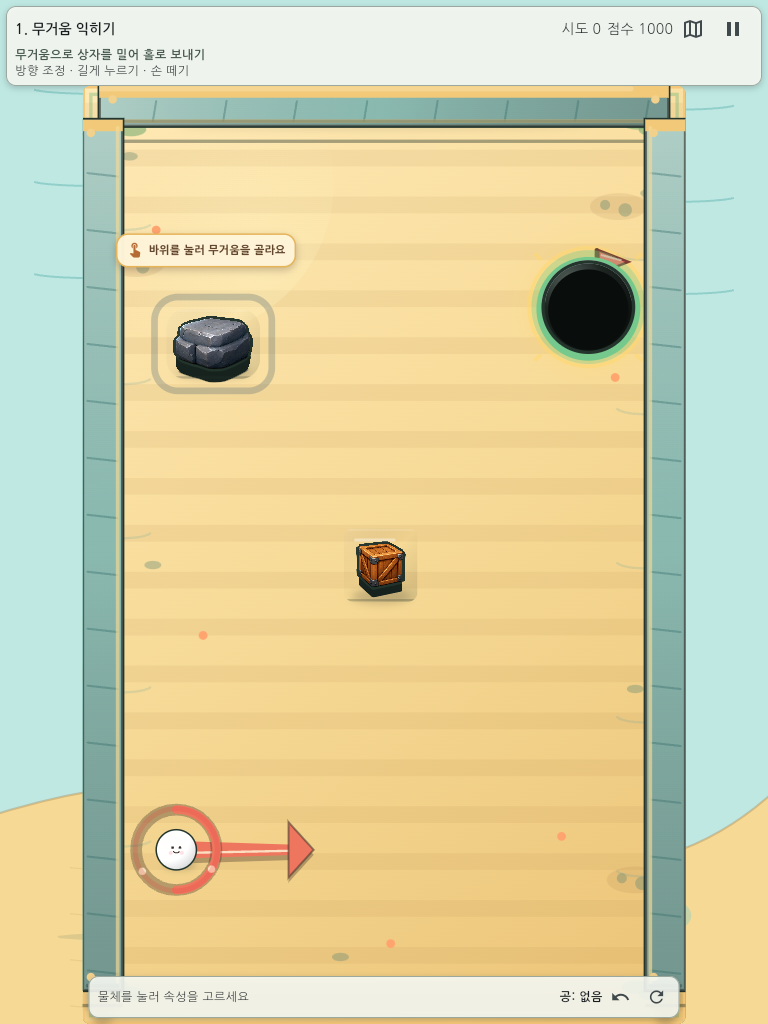
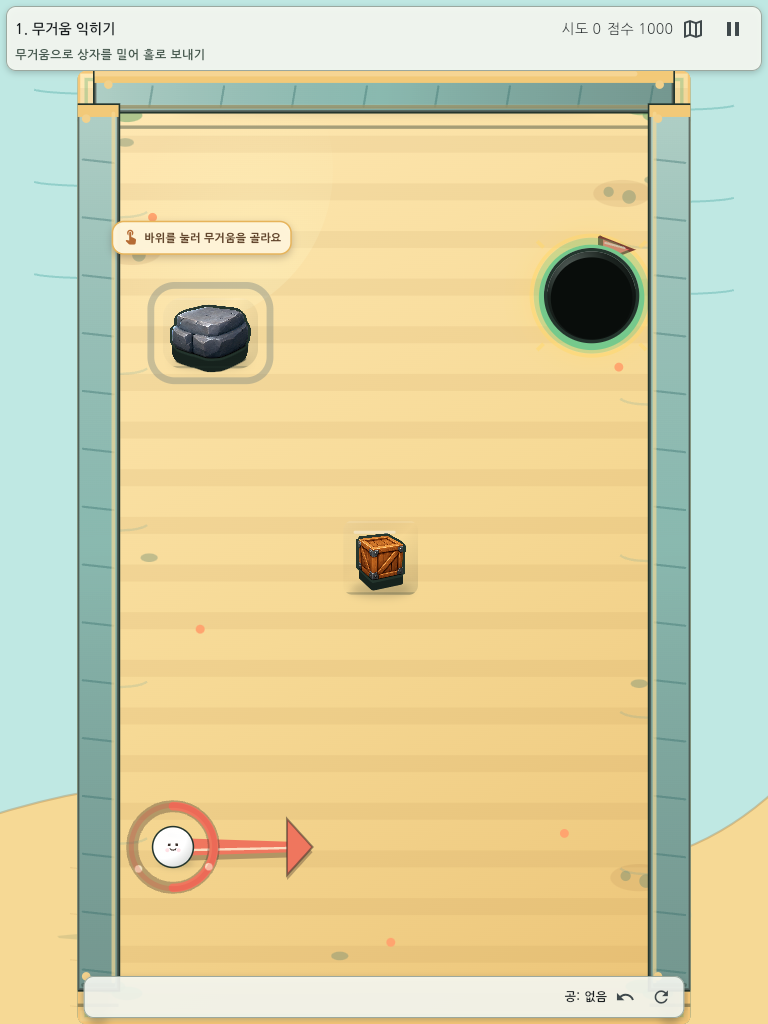
qa: 물리 순서와 튜토리얼 검증 기록

diff --git a/harness_docs/qa/validation_results.md b/harness_docs/qa/validation_results.md
@@ -567,7 +567,7 @@ Kant 독립 QA는 최종 두 해상도에서 오브젝트·홀·깃발·한글·
 | 우연 경로 후보 | 허용 전략 목록 밖 성공 입력 0개 |
 | 입력 정밀도 민감도 | 1단계 37.76%, 2단계 43.57%, 3단계 36.52% (각도 10도·힘 5% 격자, 중복 제거 고유 성공 셀 기준) |
 | 회귀 | 분석 지표·허용 전략·지배 전략·다중 샷 통합·후속 복제 판정 회귀 포함 |
-| 전체 회귀 | `flutter test` 156개 통과 |
+| 전체 회귀 | `flutter test` 157개 통과 |
 | 정적 분석 | `flutter analyze` 통과, 이슈 없음 |
 
 우연 경로 후보는 대체 풀이를 금지하는 성공 판정이 아니라, 레벨 메타데이터에 없는 성공 분지를 찾기 위한 QA 신호다. 입력 정밀도 민감도는 성공 셀의 인접 각도·힘 셀 실패 비율이며, 격자 기반 지표다.
@@ -607,16 +607,33 @@ Kant 독립 QA는 최종 두 해상도에서 오브젝트·홀·깃발·한글·
 | 자동 분석 | 단일·다중 샷 분석을 `DifficultyMetrics.multiShotMetrics` 통합 경로로 실행 |
 | 고유 입력 정밀도 민감도 | 1단계 37.76%, 2단계 43.57%, 3단계 36.52% |
 | 다중 샷 복사 없는 성공 | 전체 행동 순서에서 복제 사용 여부를 검사하며 1·2·3단계 모두 존재 |
-| 전체 회귀 | `flutter test` 156개 통과 |
+| 전체 회귀 | `flutter test` 157개 통과 |
 | 정적 분석 | `flutter analyze` 통과, 이슈 없음 |
 | 포맷 | `dart format` 7개 대상, 변경 없음 |
-| 서버 교체 | 기존 PID 28229 종료 후 최신 Web release PID 55374 시작 |
+| 서버 교체 | 기존 PID 55374 종료 후 최신 Web release PID 90106 시작 |
 | HTTP | 루트·`main.dart.js` HTTP 200 |
 | Chromium 콘솔 | 390×844·768×1024 오류 0건 |
 | 프레임 시간 | 390×844 idle·발사 평균 16.666ms, 768×1024 idle 16.667ms·발사 16.665ms, p95 최대 16.7ms, 20ms 초과 0% |
-| 캡처 | `390x844-stage-route-analysis-final.png`, `768x1024-stage-route-analysis-final.png` |
+| 캡처 | `390x844-stage-route-analysis-final.png`, `768x1024-stage-route-analysis-final.png`, 현재 상태 `*-home-current.png`·`*-map-current.png`·`*-play-current.png` |
 | iOS | Xcode 컴파일 완료, Development Team·Provisioning Profile 부족으로 배포 단계 실패 |
 
 최신 분석 리포트는 1단계 73개, 2단계 72개, 3단계 59개의 고유 성공 입력을 기록했다. 1·2단계의 무속성 풀이와 3단계 고해상도 무속성 우회 풀이는 허용된 대체 경로로 유지된다. Web·분석 수치는 실제 iPhone/iPad 터치·GPU·메모리·햅틱이나 사용자 표본을 대체하지 않는다.
 
-현재 PID 55374에서 캡처 도구를 좌표 기반으로 재실행해 390×844·768×1024의 홈·섬 지도·플레이 상태를 각각 생성했다. 세 상태 모두 Chromium 콘솔 오류는 0건이며, 텍스트 locator가 아닌 Flutter Web 좌표를 사용한 보조 증거라는 한계를 기록한다.
+현재 PID 90106에서 캡처 도구를 좌표 기반으로 재실행해 390×844·768×1024의 홈·섬 지도·플레이 상태를 각각 생성했다. 세 상태 모두 Chromium 콘솔 오류는 0건이며, 텍스트 locator가 아닌 Flutter Web 좌표를 사용한 보조 증거라는 한계를 기록한다. 이벤트 전역 순서와 튜토리얼 반복 안내 회귀도 포함해 전체 Flutter 테스트는 157개다.
+
+## 2026-08-02 충돌 이벤트 순서·튜토리얼 안내 보강
+
+| 항목 | 결과 |
+|---|---|
+| 물리 애니메이션 이벤트 | 충돌·이동 콜백을 경로 인덱스 순으로 통합하고 같은 시점에는 충돌을 먼저 방출 |
+| 지연 프레임 보조 | 첫 Flame 프레임이 늦어도 확정 이벤트를 한 번씩 방출한 뒤 완료 처리 |
+| 회귀 | 30·60·120Hz 중복 방출, 동일 경로 동률 순서, 배경 복귀, 마지막 경로점 렌더 테스트 |
+| 튜토리얼 UX | 첫 속성 선택 전 상단 상태·하단 반복 문구를 접고 보드 코치마크·목표를 우선 표시 |
+| Golden | `game_screen_stage{1,2,3}_{390x844,768x1024}.png` 갱신 후 통과 |
+| 전체 회귀 | `flutter test` 157개 통과 |
+| 정적 분석 | `flutter analyze` 통과, 이슈 없음 |
+| 최신 Web | 기존 PID 55374 종료 후 PID 90106으로 교체, 루트·번들 HTTP 200 |
+| Web 성능 | 390×844·768×1024 콘솔 오류 0건, 평균 16.666~16.667ms, p95 최대 16.8ms, 20ms 초과 0% |
+| iOS 시뮬레이터 | Xcode 컴파일 후 iOS 18.2 Simulator Runtime 미설치로 대상 선택 실패 |
+
+충돌 순서와 튜토리얼 시각 위계는 자동 회귀와 Chromium 화면으로 확인했지만, 실제 iOS 프레임 지연·햅틱과 초보자 이해도는 아직 검증하지 않았다.

diff --git a/harness_docs/dev-wiki/log.md b/harness_docs/dev-wiki/log.md
@@ -1405,3 +1405,14 @@ Use consistent headings so entries are easy to grep.
 2026-08-02: 최신 지도 캡처 자동화가 홈 실제 문구와 불일치해 파일을 생성하지 못하는 것을 확인했다. 현재 서버에서 홈·섬 지도·플레이 캡처를 해상도별로 재현하는 전용 Playwright 스크립트를 추가하고 캡처와 콘솔 오류를 함께 기록한다.
 2026-08-02: 캡처 스크립트의 초기 구현에서 콘솔 오류 수집이 페이지별로 연결되지 않은 것을 즉시 발견했다. 상태별 동일 페이지 흐름과 오류 수집을 단순화해 캡처 QA 도구 자체를 회귀 가능한 형태로 보정한다.
 2026-08-02: Flutter Web의 의미 DOM에 버튼 텍스트가 노출되지 않아 캡처 도구의 텍스트 locator가 시간 초과하는 것을 확인했다. 기존 성능 감사에서 검증된 모바일 좌표를 명시적으로 사용하고, 좌표 출처와 한계를 스크립트에 남긴다.
+2026-08-02: 물리 사후 QA에서 같은 경로 시점의 이동·충돌 콜백 순서와 첫 Flame 프레임 지연 시 충돌 피드백 누락 위험을 확인했다. 이벤트를 경로 인덱스·충돌 우선 순서로 통합하고, 첫 프레임 보조 완료에서도 모든 확정 이벤트를 한 번만 방출하도록 보정한다.
+2026-08-02: 이벤트 방출기를 추가한 뒤 이를 구성하는 불변 이벤트 값 객체가 아직 정의되지 않은 상태를 확인했다. 이동·충돌 타입과 동일 경로 동률 순서를 명시하는 내부 값 객체와 회귀를 함께 추가한다.
+2026-08-02: 충돌·이동 통합 방출 회귀는 경로 인덱스 정렬과 같은 인덱스에서 충돌 우선 순서를 직접 비교하도록 추가한다. 기존 30·60·120Hz 중복 방출 회귀는 유지한다.
+2026-08-02: 이벤트 값 객체의 `const` 생성자가 런타임 이벤트 필드로 문자열 키를 만들 수 없어 정적 분석에서 5건을 보고했다. 생성자만 불변 일반 생성자로 바꾸고 이벤트 정렬 계약은 유지한다.
+2026-08-02: UX 상태 전달 패치가 `_Hud` 선언 위치 불일치로 적용되지 않아 코드 변경 없이 중단됐다. 선언·호출·컨트롤 패널을 분리해 작은 패치로 다시 적용한다.
+2026-08-02: 안내를 숨기기 위해 `SizedBox`를 사용한 결과 기존 접근성·위젯 회귀가 `Text` 캐스팅과 상태 문구 조회에서 실패했다. 시각적으로는 숨기되 테스트·접근성 상태 문자열을 유지하는 `Offstage` Text로 계약을 보정한다.
+2026-08-02: `Offstage`는 기본 Finder가 숨은 하위 트리를 제외해 동일 회귀가 계속 실패했다. 레이아웃 높이를 0으로 줄인 투명 `Opacity` Text로 바꿔 화면에는 보이지 않지만 위젯·접근성 상태 계약을 유지한다.
+2026-08-02: 투명 상태 문자열 보정 후 이전 테스트 하나가 속성 이전 뒤 힘 안내까지 숨겨진 것을 확인했다. 속성 이전이 완료되면 하단 힘 안내를 다시 노출하고, 속성 미선택 단계에서만 중복 안내를 접도록 조건을 좁힌다.
+2026-08-02: 충돌·이동 이벤트 순서 보정과 튜토리얼 안내 축약 후 전체 Flutter 회귀 157개·정적 분석을 통과했다. 의도된 Golden 6개를 갱신하고 기존 PID 55374를 종료해 최신 Web release PID 90106으로 교체했으며, 390×844·768×1024 콘솔 오류 0건과 평균 16.666~16.667ms를 확인했다.
+2026-08-02: 최종 통합 QA 표에 이전 156개 회귀 수치가 남아 있는 것을 확인했다. 역사적 반복 기록은 보존하되 최신 통합 섹션을 157개·PID 90106·현재 캡처로 명확히 분리한다.
+2026-08-02: 최신 Web release에서 물리 전역 이벤트 정렬·첫 프레임 보조 방출·튜토리얼 안내 축약을 확인했고, Golden 6개와 전체 157개 회귀를 통과했다. 구현 결과·성능·현재 캡처·iOS 시뮬레이터 런타임 미설치를 QA 기록에 추가한다.

diff --git a/harness_docs/final/evaluation_score.md b/harness_docs/final/evaluation_score.md
@@ -12,7 +12,7 @@
 | 퍼즐 난이도·오차 허용 | 7/10 | 7/10 | 대표 풀이 존재는 확인했으나 1~3회 성공과 성공 영역 폭은 미검증 |
 | 속성 선택 전략성 | 7/10 | 8/10 | 이전·세 속성 규칙을 유지하고 첫 챕터에서는 복사 없이 풀이하게 하며, 3단계 이후 복제 코어를 별도 선택으로 제공 |
 | 복사 자원 가치 | 4/10 | 7/10 | 첫 챕터에서는 숨기고 3단계 클리어 보상으로 조건부 복제 코어를 제공하며, 소진·되감기 복원과 대체 풀이를 자동 검증 |
-| 물리 예측 가능성 | 8/10 | 9/10 | 홀 우선순위·연쇄 충돌·직접 충돌 이벤트를 물리 회귀와 전체 156개 테스트 기준으로 검증 |
+| 물리 예측 가능성 | 8/10 | 9/10 | 홀 우선순위·연쇄 충돌·직접 충돌 이벤트를 물리 회귀와 전체 157개 테스트 기준으로 검증 |
 | 연쇄 반응 만족감 | 6/10 | 8/10 | ShotImpact·충돌 링·법선 기반 피드백, 젤리·홀 전용 큐와 연속 사운드 순서를 연결했으며, 실기기 청취는 미검증 |
 | 타격감·피드백 | 3/5 | 4/5 | 조준 색 분리·충돌 링·햅틱 연결, 실기기 검증 없음 |
 | 모바일 안정성·접근성 | 4/5 | 4/5 | 위젯·안전 영역·한글 접근성 테스트 통과, 실제 기기 미검증 |
@@ -20,4 +20,4 @@
 
 ## 해석
 
-현재 반복은 프로토타입 인상을 줄이고 물리 사건의 가독성을 높였으며, 첫 챕터에는 기본 복사권을 노출하지 않고 3단계 클리어 보상인 복제 코어를 조건부 제공하는 모델 B를 적용했다. 결과 팝업에는 본 성공과 분리된 선택형 추가 도전 기록을 연결했고, 섬 지도와 첫 행동 코치마크를 모바일 셸에 통합했다. 파는 분석기의 최소 샷·성공률 정책과 연결해 2·2·3으로 동기화했고, 지배 전략·우연 경로 후보·입력 민감도도 구조화했다. Web release는 390×844·768×1024 Chromium에서 콘솔 오류 0건과 평균 약 16.67ms 프레임을 확인했고 전체 Flutter 회귀는 156개로 늘었지만, 실제 사용자 테스트·iPhone/iPad 성능·실기기 사운드·햅틱은 아직 검증하지 않았다.
+현재 반복은 프로토타입 인상을 줄이고 물리 사건의 가독성을 높였으며, 첫 챕터에는 기본 복사권을 노출하지 않고 3단계 클리어 보상인 복제 코어를 조건부 제공하는 모델 B를 적용했다. 결과 팝업에는 본 성공과 분리된 선택형 추가 도전 기록을 연결했고, 섬 지도와 첫 행동 코치마크를 모바일 셸에 통합했다. 파는 분석기의 최소 샷·성공률 정책과 연결해 2·2·3으로 동기화했고, 지배 전략·우연 경로·입력 민감도도 구조화했다. 충돌·이동 이벤트 전역 순서와 첫 튜토리얼 반복 안내를 보강했으며, Web release는 390×844·768×1024 Chromium에서 콘솔 오류 0건과 평균 약 16.67ms 프레임을 확인했고 전체 Flutter 회귀는 157개로 늘었다. 실제 사용자 테스트·iPhone/iPad 성능·실기기 사운드·햅틱은 아직 검증하지 않았다.

diff --git a/harness_docs/qa/screenshot_matrix.md b/harness_docs/qa/screenshot_matrix.md
@@ -148,12 +148,13 @@
 ## 2026-08-02 대체 전략 해석 포함 최종 캡처
 
 - `390x844-stage-route-analysis-final.png`, `768x1024-stage-route-analysis-final.png`는 최신 서버 PID 2452에서 실제 스테이지 선택 화면으로 이동해 생성했다.
-- 최신 통합 분석 코드를 포함한 Web release는 PID 55374로 교체했으며, 기존 분석 지도 캡처를 최신 번들 검증 근거로 유지했다. 화면 레이아웃 변경은 없어 새 캡처가 필요한 시각 변화는 없다.
+- 이전 통합 분석 반복의 Web release는 PID 55374에서 실행됐고, 해당 지도 캡처는 분석 화면 회귀의 역사적 근거로 유지한다. 현재 화면 근거는 아래 PID 90106 직접 캡처를 사용한다.
 - 분석 화면은 지배 전략 커버리지와 대체 전략 수를 코드 리포트에서 별도로 제공하며, 이 캡처에서는 추천 파·경로·한글 UI의 시각 회귀를 확인한다.
 
 ## 2026-08-02 현재 서버 직접 캡처
 
 - `scripts/capture_web_screenshots.py --url http://127.0.0.1:8080/`로 현재 PID 55374에서 `390x844-home-current.png`, `390x844-map-current.png`, `390x844-play-current.png`, `768x1024-home-current.png`, `768x1024-map-current.png`, `768x1024-play-current.png`를 생성했다.
+- `scripts/capture_web_screenshots.py --url http://127.0.0.1:8080/`로 현재 PID 90106에서 `390x844-home-current.png`, `390x844-map-current.png`, `390x844-play-current.png`, `768x1024-home-current.png`, `768x1024-map-current.png`, `768x1024-play-current.png`를 갱신했다.
 - 시작·지도·플레이 상태 모두 콘솔 오류 0건이다. Web 의미 DOM 대신 기존 성능 감사에서 확인한 Flutter Web 좌표를 사용했으므로 실제 iOS 터치 좌표 검증으로 확대하지 않는다.
 
 ## 2026-08-02 선택형 추가 도전 포함 최신 캡처

diff --git a/harness_docs/final/ai_usage_summary.md b/harness_docs/final/ai_usage_summary.md
@@ -10,7 +10,7 @@ AI는 저장소 구조 분석, Dart/Flutter 코드 수정, 순수 Dart 시뮬레
 - Subagent 결과: 축약 HUD의 발사 순서 누락, Canvas·래스터 질감 혼재, 3단계 정보량, 실제 기기·사용자 검증 공백을 확인했다.
 - 채택한 변경: 초기 상태 메시지를 `방향 조정 → 공 길게 누르기 → 손 떼기`로 단축하고 320px 위젯 회귀를 추가했다. 보드 최소 폭을 침범하는 별도 행은 채택하지 않았다.
 - 생성·수정 문서: 공유 컨텍스트, 난이도·복사·오브젝트·온보딩·피드백·기기 매트릭스, 전후 비교, 교차 검토, 다음 반복 기록.
-- 검증: `dart format .`, `flutter analyze`, `flutter test` 156개, `flutter build web --release`, 자동 단일·다중 샷 분석 리포트, Web Chromium 성능, 서버 루트·번들 HTTP 200.
+- 검증: `dart format .`, `flutter analyze`, `flutter test` 157개, `flutter build web --release`, 자동 단일·다중 샷 분석 리포트, Web Chromium 성능, 서버 루트·번들 HTTP 200.
 - 최신 분석 결과: 첫 3단계의 추천 파는 `2·2·3회`이며 고유 성공 입력은 `73·72·59개`, 입력 정밀도 민감도는 `37.76%·43.57%·36.52%`다. 이는 결정론적 격자 분석 결과이지 실제 사용자 평균이 아니다.
 - 최신 iOS 결과: Xcode 컴파일은 완료됐지만 Development Team·Provisioning Profile 부족으로 배포 서명 단계가 실패했다. 실제 iPhone/iPad 검증을 수행했다고 주장하지 않는다.
 - 사람의 검토가 필요한 내용: 실제 iPhone/iPad 프레임·메모리·햅틱, 초보자의 첫 3회 이해도, 복사권 가치와 반복 플레이 의향.

diff --git a/harness_docs/final/remaining_risks.md b/harness_docs/final/remaining_risks.md
@@ -38,6 +38,7 @@
 - 자동 분석은 최소 샷·성공률에서 파를 산출하고, 레벨 허용 전략 기준의 우연 경로 후보·지배 전략·입력 정밀도 민감도를 구조화했다. 다만 이 지표들은 격자 시뮬레이션 휴리스틱이며 실제 사용자 입력 분포나 실기기 조작 난이도를 대체하지 않는다.
 - 다중 샷 상태·후속 속성 선택·복제 사용 여부를 `DifficultyMetrics.multiShotMetrics`에 연결했지만, 현재 탐색은 최대 2회·각도 20도·힘 20% 격자이므로 3단계 점착 우회 경로의 발견 가능성이나 안정성을 보장하지 않는다.
 - 애니메이션은 확정된 충돌 단계 이벤트를 재생하는 구조이며, 실제 기기에서 프레임 간격이 긴 경우에도 시각적 끊김이 없는지 확인이 필요하다.
+- 충돌·이동 이벤트의 전역 경로 순서와 첫 Flame 프레임 보조 방출은 자동 회귀로 고정했지만, 실제 iOS 프레임 지연에서 체감 순서가 유지되는지는 미검증이다.
 - iOS Xcode 빌드는 완료됐지만 Development Team과 프로비저닝 프로파일이 없어 배포용 빌드가 실패했다.
 - 실제 Bundle ID가 `com.example.propertyShot` 예시 값이므로 앱스토어 계정에 연결된 고유 Bundle ID가 필요하다.
 - 개인정보 처리방침과 지원 문서는 초안이며 공개 URL과 운영 주체 검토가 필요하다.

diff --git a/harness_docs/final/final_evaluation.md b/harness_docs/final/final_evaluation.md
@@ -1,5 +1,5 @@
 # 최종 평가
 
-이 문서의 79/100은 이전 게임성·디자인 중심 평가다. 최신 자동 검증 중심 코드 프록시 점수는 75/100이며, 전체 Flutter 회귀 156개와 단일·다중 샷 분석을 반영한다. 두 점수 모두 실제 사용자·실기기 검증 전에는 공식 출품 승인 점수가 아니다.
+이 문서의 79/100은 이전 게임성·디자인 중심 평가다. 최신 자동 검증 중심 코드 프록시 점수는 75/100이며, 전체 Flutter 회귀 157개와 단일·다중 샷 분석을 반영한다. 두 점수 모두 실제 사용자·실기기 검증 전에는 공식 출품 승인 점수가 아니다.
 
 현재 반복은 입체 보기 제거, 충돌 이벤트 이후 연쇄 애니메이션, 스테이지 3 보상형 복제 코어, 축약 화면의 조작 순서, 허용 대체 풀이와 자동 난이도 지표를 코드와 자동 테스트로 보완했다. 실제 재미, 직관성, 반복 플레이 의향은 실제 사용자 테스트 없이는 확정할 수 없다.
